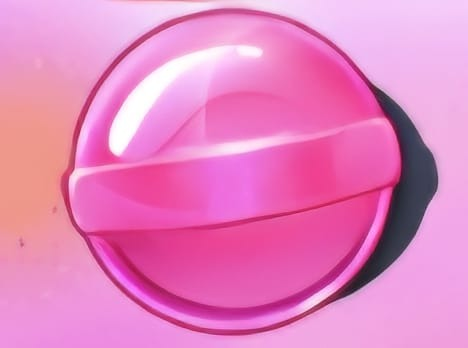
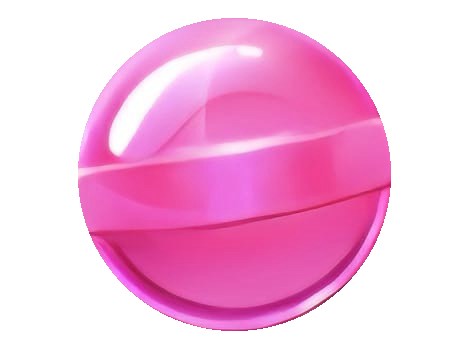
feat: implement game configuration, asset loaders, and core engine components for slot mechanics

diff --git a/src/components/Grid.ts b/src/components/Grid.ts
@@ -54,7 +54,7 @@ export class Grid {
 
   private symbolKeys = [
     'candy_0', 'candy_1', 'candy_2', 'candy_3',
-    'candy_4', 'candy_5', 'candy_6', 'scatter'
+    'candy_4', 'candy_5', 'candy_6', 'wild', 'scatter'
   ];
 
   // Layout — set dynamically by Game.tsx
@@ -114,10 +114,10 @@ export class Grid {
         const x = this.offsetX + c * this.cellSize + gap;
         const y = this.offsetY + r * this.cellSize + gap;
         const s = this.cellSize - gap * 2;
-        // Fully opaque dark blue backgrounds — alternating tint
-        const tint = (r + c) % 2 === 0 ? 0x0c1528 : 0x101d38;
-        this.cellBackgrounds.fillStyle(tint, 1.0);
-        this.cellBackgrounds.fillRoundedRect(x, y, s, s, 6);
+        // Semi-transparent dark pink/purple backgrounds for glass effect
+        const tint = (r + c) % 2 === 0 ? 0x2a0018 : 0x3d0024;
+        this.cellBackgrounds.fillStyle(tint, 0.6);
+        this.cellBackgrounds.fillRoundedRect(x, y, s, s, 10);
       }
     }
   }
@@ -155,13 +155,13 @@ export class Grid {
     return this.offsetY + row * this.cellSize + this.cellSize / 2;
   }
 
-  /** Pick a weighted random symbol ID (0-6) or scatter (7). */
+  /** Pick a weighted random symbol ID (0-7) or scatter (8). */
   private pickSymbol(): number {
     const scatterRate = options.anteBetEnabled
       ? options.scatterChanceAnte
       : options.scatterChance;
 
-    if (Math.random() < scatterRate) return 7;
+    if (Math.random() < scatterRate) return 8;
 
     const weights = options.symbolWeights;
     const total = weights.reduce((a, b) => a + b, 0);
@@ -663,7 +663,7 @@ export class Grid {
     const scatterPositions: { r: number; c: number }[] = [];
     for (let r = 0; r < size; r++) {
       for (let c = 0; c < size; c++) {
-        if (idGrid[r][c] === 7) {
+        if (idGrid[r][c] === 8) {
           scatters++;
           scatterPositions.push({ r, c });
         }

diff --git a/src/options.ts b/src/options.ts
@@ -40,11 +40,12 @@ export default {
     [0.40, 0.50, 0.75, 1.00, 1.25, 2.00, 3.00, 5.00, 10.00, 20.00, 40.00],  // ID 3: Green Candy
     [0.50, 0.75, 1.00, 1.25, 1.50, 3.00, 4.50, 10.00, 20.00, 40.00, 60.00], // ID 4: Purple Candy
     [0.75, 1.00, 1.25, 1.50, 2.00, 4.00, 6.00, 12.50, 30.00, 60.00, 100.00],// ID 5: Orange Candy
-    [1.00, 1.50, 1.75, 2.00, 2.50, 5.00, 7.50, 15.00, 35.00, 70.00, 150.00] // ID 6: Pink Candy
+    [1.00, 1.50, 1.75, 2.00, 2.50, 5.00, 7.50, 15.00, 35.00, 70.00, 150.00],// ID 6: Pink Candy
+    [0.00, 0.00, 0.00, 0.00, 0.00, 0.00, 0.00, 0.00, 0.00,  0.00,   0.00] // ID 7: Wild
   ],
 
   // Symbol spawn weights (higher = more common). Must sum to 100.
-  symbolWeights: [18, 17, 16, 14, 13, 12, 10],
+  symbolWeights: [18, 16, 15, 14, 13, 12, 9, 3],
 
   // Scatter (free spin trigger) probability per cell
   scatterChance: 0.02,           // Base: 2.0%

diff --git a/src/engine/StakeEngineClient.ts b/src/engine/StakeEngineClient.ts
@@ -438,11 +438,11 @@ export class StakeEngineClient {
     featureType: number,
   ): StakePlayResponse {
     const gridSize = 7;
-    const symbolWeights = [18, 17, 16, 14, 13, 12, 10];
+    const symbolWeights = [18, 16, 15, 14, 13, 12, 9, 3];
     const totalWeight = symbolWeights.reduce((a, b) => a + b, 0);
 
     const pickSymbol = (): number => {
-      if (Math.random() < 0.02) return 7; // scatter
+      if (Math.random() < 0.02) return 8; // scatter
       let roll = Math.random() * totalWeight;
       for (let i = 0; i < symbolWeights.length; i++) {
         roll -= symbolWeights[i];